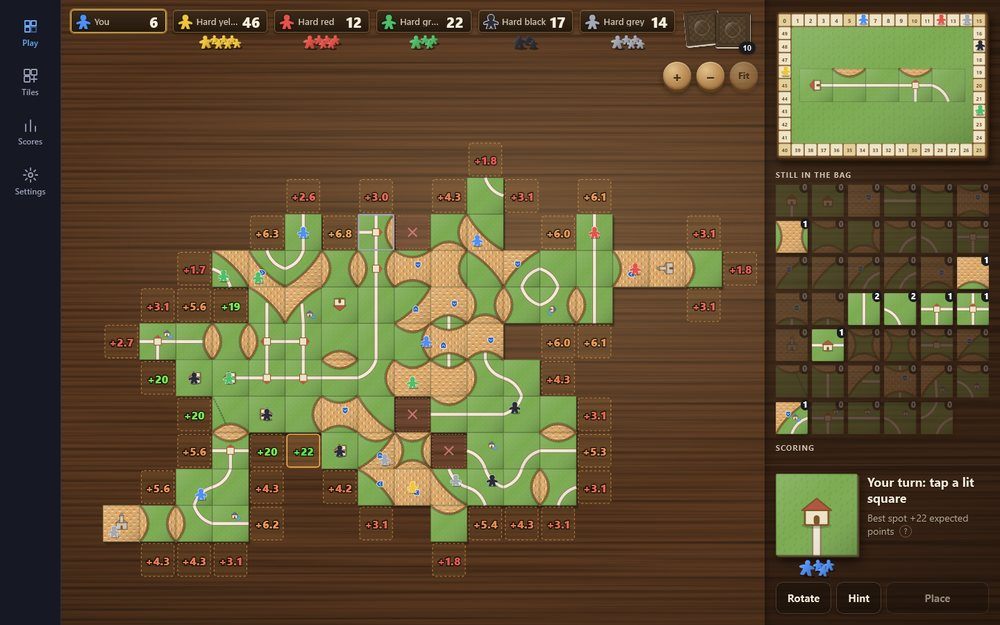
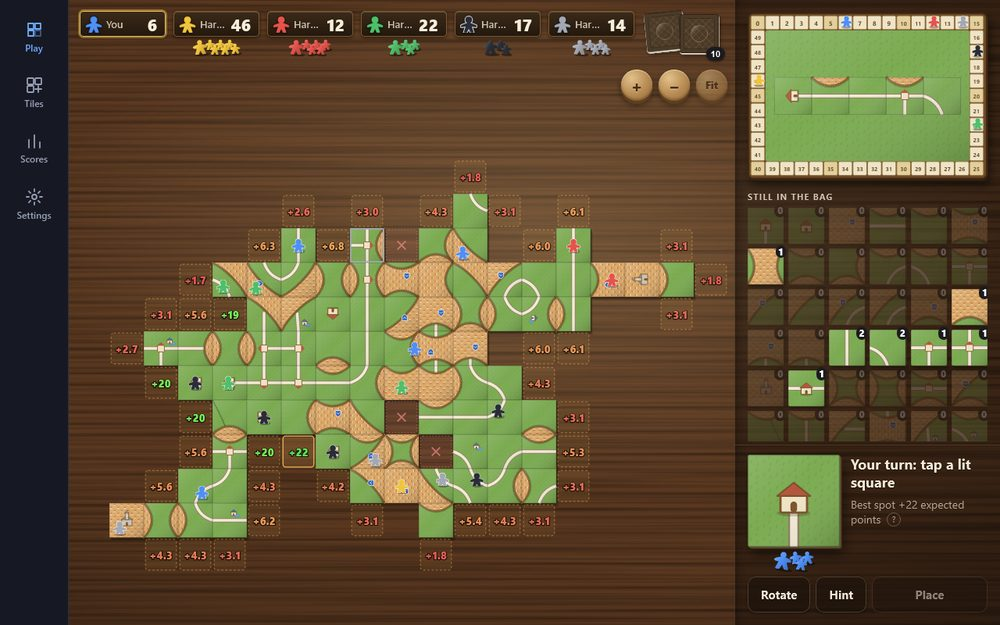
README: a picture for every one of the 31 games, by section

Changed region(s): [[0.0, 0.0, 0.992, 1.0], [0.899, 0.9424, 0.961, 0.9728]]

diff --git a/README.md b/README.md
@@ -1,68 +1,186 @@
 # Board & card games
 
-31 board and card games and table companions, each its own web app. Play against computers or with friends online, with live odds, hints, sounds and real-table looks, on phone or laptop.
+31 board and card games and table companions, each its own web app. Play against computers or with friends online, with live odds, hints, sounds and real-table looks, on phone or laptop. Click a picture to play.
 
 **[▶ Open the game hub](https://timothyhadfield.github.io/)** · works on phone and laptop
 
-<a href="https://timothyhadfield.github.io/"><img src="docs/screenshots/games/collage.jpg" alt="Nine of the games: Ticket to Ride, Risk, Pandemic, Carcassonne, Splendor, King of Tokyo, Secret Hitler, Cribbage, Venture Lab"></a>
-
-## All the games
-
 ### Board games
 
-| Game | Play | Code |
-|---|---|---|
-| Ticket to Ride | [play](https://timothyhadfield.github.io/ticket-to-ride/) | [ticket-to-ride](https://github.com/TimothyHadfield/ticket-to-ride) |
-| Risk | [play](https://timothyhadfield.github.io/risk/) | [risk](https://github.com/TimothyHadfield/risk) |
-| Pandemic | [play](https://timothyhadfield.github.io/pandemic/) | [pandemic](https://github.com/TimothyHadfield/pandemic) |
-| Carcassonne | [play](https://timothyhadfield.github.io/carcassonne/) | [carcassonne](https://github.com/TimothyHadfield/carcassonne) |
-| Splendor | [play](https://timothyhadfield.github.io/splendor/) | [splendor](https://github.com/TimothyHadfield/splendor) |
-| King of Tokyo | [play](https://timothyhadfield.github.io/king-of-tokyo/) | [king-of-tokyo](https://github.com/TimothyHadfield/king-of-tokyo) |
-| Monopoly | [play](https://timothyhadfield.github.io/monopoly/) | [monopoly](https://github.com/TimothyHadfield/monopoly) |
-| Evolution | [play](https://timothyhadfield.github.io/evolution/) | [evolution](https://github.com/TimothyHadfield/evolution) |
-| 7 Wonders | [play](https://timothyhadfield.github.io/seven-wonders/) | [seven-wonders](https://github.com/TimothyHadfield/seven-wonders) |
-| Catan Statistics | [play](https://timothyhadfield.github.io/catan-statistics/) | [catan-statistics](https://github.com/TimothyHadfield/catan-statistics) |
+<table>
+<tr>
+<td width="33%" valign="top">
+<a href="https://timothyhadfield.github.io/ticket-to-ride/"><img src="docs/screenshots/games/ticket-to-ride.jpg" alt="Ticket to Ride"></a>
+<b><a href="https://timothyhadfield.github.io/ticket-to-ride/">Ticket to Ride</a></b> · <a href="https://github.com/TimothyHadfield/ticket-to-ride">code</a>
+</td>
+<td width="33%" valign="top">
+<a href="https://timothyhadfield.github.io/risk/"><img src="docs/screenshots/games/risk.jpg" alt="Risk"></a>
+<b><a href="https://timothyhadfield.github.io/risk/">Risk</a></b> · <a href="https://github.com/TimothyHadfield/risk">code</a>
+</td>
+<td width="33%" valign="top">
+<a href="https://timothyhadfield.github.io/pandemic/"><img src="docs/screenshots/games/pandemic.jpg" alt="Pandemic"></a>
+<b><a href="https://timothyhadfield.github.io/pandemic/">Pandemic</a></b> · <a href="https://github.com/TimothyHadfield/pandemic">code</a>
+</td>
+</tr>
+<tr>
+<td width="33%" valign="top">
+<a href="https://timothyhadfield.github.io/carcassonne/"><img src="docs/screenshots/games/carcassonne.jpg" alt="Carcassonne"></a>
+<b><a href="https://timothyhadfield.github.io/carcassonne/">Carcassonne</a></b> · <a href="https://github.com/TimothyHadfield/carcassonne">code</a>
+</td>
+<td width="33%" valign="top">
+<a href="https://timothyhadfield.github.io/splendor/"><img src="docs/screenshots/games/splendor.jpg" alt="Splendor"></a>
+<b><a href="https://timothyhadfield.github.io/splendor/">Splendor</a></b> · <a href="https://github.com/TimothyHadfield/splendor">code</a>
+</td>
+<td width="33%" valign="top">
+<a href="https://timothyhadfield.github.io/king-of-tokyo/"><img src="docs/screenshots/games/king-of-tokyo.jpg" alt="King of Tokyo"></a>
+<b><a href="https://timothyhadfield.github.io/king-of-tokyo/">King of Tokyo</a></b> · <a href="https://github.com/TimothyHadfield/king-of-tokyo">code</a>
+</td>
+</tr>
+<tr>
+<td width="33%" valign="top">
+<a href="https://timothyhadfield.github.io/monopoly/"><img src="docs/screenshots/games/monopoly.jpg" alt="Monopoly"></a>
+<b><a href="https://timothyhadfield.github.io/monopoly/">Monopoly</a></b> · <a href="https://github.com/TimothyHadfield/monopoly">code</a>
+</td>
+<td width="33%" valign="top">
+<a href="https://timothyhadfield.github.io/evolution/"><img src="docs/screenshots/games/evolution.jpg" alt="Evolution"></a>
+<b><a href="https://timothyhadfield.github.io/evolution/">Evolution</a></b> · <a href="https://github.com/TimothyHadfield/evolution">code</a>
+</td>
+<td width="33%" valign="top">
+<a href="https://timothyhadfield.github.io/seven-wonders/"><img src="docs/screenshots/games/seven-wonders.jpg" alt="7 Wonders"></a>
+<b><a href="https://timothyhadfield.github.io/seven-wonders/">7 Wonders</a></b> · <a href="https://github.com/TimothyHadfield/seven-wonders">code</a>
+</td>
+</tr>
+<tr>
+<td width="33%" valign="top">
+<a href="https://timothyhadfield.github.io/catan-statistics/"><img src="docs/screenshots/games/catan-statistics.jpg" alt="Catan Statistics"></a>
+<b><a href="https://timothyhadfield.github.io/catan-statistics/">Catan Statistics</a></b> · <a href="https://github.com/TimothyHadfield/catan-statistics">code</a>
+</td>
+<td width="33%"></td>
+<td width="33%"></td>
+</tr>
+</table>
 
 ### Card games
 
-| Game | Play | Code |
-|---|---|---|
-| Cribbage | [play](https://timothyhadfield.github.io/cribbage/) | [cribbage](https://github.com/TimothyHadfield/cribbage) |
-| Venture Lab (Lost Cities) | [play](https://timothyhadfield.github.io/venture-lab/) | [venture-lab](https://github.com/TimothyHadfield/venture-lab) |
-| Dominion | [play](https://timothyhadfield.github.io/dominion/) | [dominion](https://github.com/TimothyHadfield/dominion) |
-| Texas Hold'em | [play](https://timothyhadfield.github.io/texas-holdem/) | [texas-holdem](https://github.com/TimothyHadfield/texas-holdem) |
-| Hearts & Spades | [play](https://timothyhadfield.github.io/hearts-spades/) | [hearts-spades](https://github.com/TimothyHadfield/hearts-spades) |
-| Skull King | [play](https://timothyhadfield.github.io/skull-king/) | [skull-king](https://github.com/TimothyHadfield/skull-king) |
-| Cover Your Assets | [play](https://timothyhadfield.github.io/cover-your-assets/) | [cover-your-assets](https://github.com/TimothyHadfield/cover-your-assets) |
-| Exploding Kittens | [play](https://timothyhadfield.github.io/exploding-kittens/) | [exploding-kittens](https://github.com/TimothyHadfield/exploding-kittens) |
+<table>
+<tr>
+<td width="33%" valign="top">
+<a href="https://timothyhadfield.github.io/cribbage/"><img src="docs/screenshots/games/cribbage.jpg" alt="Cribbage"></a>
+<b><a href="https://timothyhadfield.github.io/cribbage/">Cribbage</a></b> · <a href="https://github.com/TimothyHadfield/cribbage">code</a>
+</td>
+<td width="33%" valign="top">
+<a href="https://timothyhadfield.github.io/venture-lab/"><img src="docs/screenshots/games/venture-lab.jpg" alt="Venture Lab (Lost Cities)"></a>
+<b><a href="https://timothyhadfield.github.io/venture-lab/">Venture Lab (Lost Cities)</a></b> · <a href="https://github.com/TimothyHadfield/venture-lab">code</a>
+</td>
+<td width="33%" valign="top">
+<a href="https://timothyhadfield.github.io/dominion/"><img src="docs/screenshots/games/dominion.jpg" alt="Dominion"></a>
+<b><a href="https://timothyhadfield.github.io/dominion/">Dominion</a></b> · <a href="https://github.com/TimothyHadfield/dominion">code</a>
+</td>
+</tr>
+<tr>
+<td width="33%" valign="top">
+<a href="https://timothyhadfield.github.io/texas-holdem/"><img src="docs/screenshots/games/texas-holdem.jpg" alt="Texas Hold'em"></a>
+<b><a href="https://timothyhadfield.github.io/texas-holdem/">Texas Hold'em</a></b> · <a href="https://github.com/TimothyHadfield/texas-holdem">code</a>
+</td>
+<td width="33%" valign="top">
+<a href="https://timothyhadfield.github.io/hearts-spades/"><img src="docs/screenshots/games/hearts-spades.jpg" alt="Hearts & Spades"></a>
+<b><a href="https://timothyhadfield.github.io/hearts-spades/">Hearts & Spades</a></b> · <a href="https://github.com/TimothyHadfield/hearts-spades">code</a>
+</td>
+<td width="33%" valign="top">
+<a href="https://timothyhadfield.github.io/skull-king/"><img src="docs/screenshots/games/skull-king.jpg" alt="Skull King"></a>
+<b><a href="https://timothyhadfield.github.io/skull-king/">Skull King</a></b> · <a href="https://github.com/TimothyHadfield/skull-king">code</a>
+</td>
+</tr>
+<tr>
+<td width="33%" valign="top">
+<a href="https://timothyhadfield.github.io/cover-your-assets/"><img src="docs/screenshots/games/cover-your-assets.jpg" alt="Cover Your Assets"></a>
+<b><a href="https://timothyhadfield.github.io/cover-your-assets/">Cover Your Assets</a></b> · <a href="https://github.com/TimothyHadfield/cover-your-assets">code</a>
+</td>
+<td width="33%" valign="top">
+<a href="https://timothyhadfield.github.io/exploding-kittens/"><img src="docs/screenshots/games/exploding-kittens.jpg" alt="Exploding Kittens"></a>
+<b><a href="https://timothyhadfield.github.io/exploding-kittens/">Exploding Kittens</a></b> · <a href="https://github.com/TimothyHadfield/exploding-kittens">code</a>
+</td>
+<td width="33%"></td>
+</tr>
+</table>
 
 ### Party & hidden roles
 
-| Game | Play | Code |
-|---|---|---|
-| Secret Hitler Companion | [play](https://timothyhadfield.github.io/secret-hitler-companion/) | [secret-hitler-companion](https://github.com/TimothyHadfield/secret-hitler-companion) |
-| Codenames | [play](https://timothyhadfield.github.io/codenames/) | [codenames](https://github.com/TimothyHadfield/codenames) |
-| Clocktower | [play](https://timothyhadfield.github.io/clocktower/) | [clocktower](https://github.com/TimothyHadfield/clocktower) |
-| Coup | [play](https://timothyhadfield.github.io/coup/) | [coup](https://github.com/TimothyHadfield/coup) |
-| Werewolf | [play](https://timothyhadfield.github.io/werewolf/) | [werewolf](https://github.com/TimothyHadfield/werewolf) |
-| Wavelength | [play](https://timothyhadfield.github.io/wavelength/) | [wavelength](https://github.com/TimothyHadfield/wavelength) |
+<table>
+<tr>
+<td width="33%" valign="top">
+<a href="https://timothyhadfield.github.io/secret-hitler-companion/"><img src="docs/screenshots/games/secret-hitler-companion.jpg" alt="Secret Hitler Companion"></a>
+<b><a href="https://timothyhadfield.github.io/secret-hitler-companion/">Secret Hitler Companion</a></b> · <a href="https://github.com/TimothyHadfield/secret-hitler-companion">code</a>
+</td>
+<td width="33%" valign="top">
+<a href="https://timothyhadfield.github.io/codenames/"><img src="docs/screenshots/games/codenames.jpg" alt="Codenames"></a>
+<b><a href="https://timothyhadfield.github.io/codenames/">Codenames</a></b> · <a href="https://github.com/TimothyHadfield/codenames">code</a>
+</td>
+<td width="33%" valign="top">
+<a href="https://timothyhadfield.github.io/clocktower/"><img src="docs/screenshots/games/clocktower.jpg" alt="Clocktower"></a>
+<b><a href="https://timothyhadfield.github.io/clocktower/">Clocktower</a></b> · <a href="https://github.com/TimothyHadfield/clocktower">code</a>
+</td>
+</tr>
+<tr>
+<td width="33%" valign="top">
+<a href="https://timothyhadfield.github.io/coup/"><img src="docs/screenshots/games/coup.jpg" alt="Coup"></a>
+<b><a href="https://timothyhadfield.github.io/coup/">Coup</a></b> · <a href="https://github.com/TimothyHadfield/coup">code</a>
+</td>
+<td width="33%" valign="top">
+<a href="https://timothyhadfield.github.io/werewolf/"><img src="docs/screenshots/games/werewolf.jpg" alt="Werewolf"></a>
+<b><a href="https://timothyhadfield.github.io/werewolf/">Werewolf</a></b> · <a href="https://github.com/TimothyHadfield/werewolf">code</a>
+</td>
+<td width="33%" valign="top">
+<a href="https://timothyhadfield.github.io/wavelength/"><img src="docs/screenshots/games/wavelength.jpg" alt="Wavelength"></a>
+<b><a href="https://timothyhadfield.github.io/wavelength/">Wavelength</a></b> · <a href="https://github.com/TimothyHadfield/wavelength">code</a>
+</td>
+</tr>
+</table>
 
 ### Classics
 
-| Game | Play | Code |
-|---|---|---|
-| Clue | [play](https://timothyhadfield.github.io/clue/) | [clue](https://github.com/TimothyHadfield/clue) |
-| Battleship | [play](https://timothyhadfield.github.io/battleship/) | [battleship](https://github.com/TimothyHadfield/battleship) |
-| Connect Four | [play](https://timothyhadfield.github.io/connect-four/) | [connect-four](https://github.com/TimothyHadfield/connect-four) |
-| Stratego | [play](https://timothyhadfield.github.io/stratego/) | [stratego](https://github.com/TimothyHadfield/stratego) |
-| Checkers | [play](https://timothyhadfield.github.io/checkers/) | [checkers](https://github.com/TimothyHadfield/checkers) |
+<table>
+<tr>
+<td width="33%" valign="top">
+<a href="https://timothyhadfield.github.io/clue/"><img src="docs/screenshots/games/clue.jpg" alt="Clue"></a>
+<b><a href="https://timothyhadfield.github.io/clue/">Clue</a></b> · <a href="https://github.com/TimothyHadfield/clue">code</a>
+</td>
+<td width="33%" valign="top">
+<a href="https://timothyhadfield.github.io/battleship/"><img src="docs/screenshots/games/battleship.jpg" alt="Battleship"></a>
+<b><a href="https://timothyhadfield.github.io/battleship/">Battleship</a></b> · <a href="https://github.com/TimothyHadfield/battleship">code</a>
+</td>
+<td width="33%" valign="top">
+<a href="https://timothyhadfield.github.io/connect-four/"><img src="docs/screenshots/games/connect-four.jpg" alt="Connect Four"></a>
+<b><a href="https://timothyhadfield.github.io/connect-four/">Connect Four</a></b> · <a href="https://github.com/TimothyHadfield/connect-four">code</a>
+</td>
+</tr>
+<tr>
+<td width="33%" valign="top">
+<a href="https://timothyhadfield.github.io/stratego/"><img src="docs/screenshots/games/stratego.jpg" alt="Stratego"></a>
+<b><a href="https://timothyhadfield.github.io/stratego/">Stratego</a></b> · <a href="https://github.com/TimothyHadfield/stratego">code</a>
+</td>
+<td width="33%" valign="top">
+<a href="https://timothyhadfield.github.io/checkers/"><img src="docs/screenshots/games/checkers.jpg" alt="Checkers"></a>
+<b><a href="https://timothyhadfield.github.io/checkers/">Checkers</a></b> · <a href="https://github.com/TimothyHadfield/checkers">code</a>
+</td>
+<td width="33%"></td>
+</tr>
+</table>
 
 ### Dice
 
-| Game | Play | Code |
-|---|---|---|
-| BANK Evolution | [play](https://timothyhadfield.github.io/bank-evolution/) | [bank-evolution](https://github.com/TimothyHadfield/bank-evolution) |
-| BANK AI Trainer | [play](https://timothyhadfield.github.io/bank-ai-trainer/) | [bank-ai-trainer](https://github.com/TimothyHadfield/bank-ai-trainer) |
+<table>
+<tr>
+<td width="33%" valign="top">
+<a href="https://timothyhadfield.github.io/bank-evolution/"><img src="docs/screenshots/games/bank-evolution.jpg" alt="BANK Evolution"></a>
+<b><a href="https://timothyhadfield.github.io/bank-evolution/">BANK Evolution</a></b> · <a href="https://github.com/TimothyHadfield/bank-evolution">code</a>
+</td>
+<td width="33%" valign="top">
+<a href="https://timothyhadfield.github.io/bank-ai-trainer/"><img src="docs/screenshots/games/bank-ai-trainer.jpg" alt="BANK AI Trainer"></a>
+<b><a href="https://timothyhadfield.github.io/bank-ai-trainer/">BANK AI Trainer</a></b> · <a href="https://github.com/TimothyHadfield/bank-ai-trainer">code</a>
+</td>
+<td width="33%"></td>
+</tr>
+</table>
 
 ## How this works
 
@@ -79,7 +197,7 @@ through to whichever game they want.
 2. Enable Pages on that repo (Settings → Pages → source: `main`, folder: `/`).
 3. Copy an existing `<a class="card">` block in [`index.html`](index.html), change the
    href, emoji, title, description and tags, and push.
-4. Add a row to the right table above.
+4. Add a 1000×625 screenshot as `docs/screenshots/games/<repo>.jpg` and a cell to the right table above.
 
 That's the whole process — there is no build step and no dependency between the hub and
 the games.
